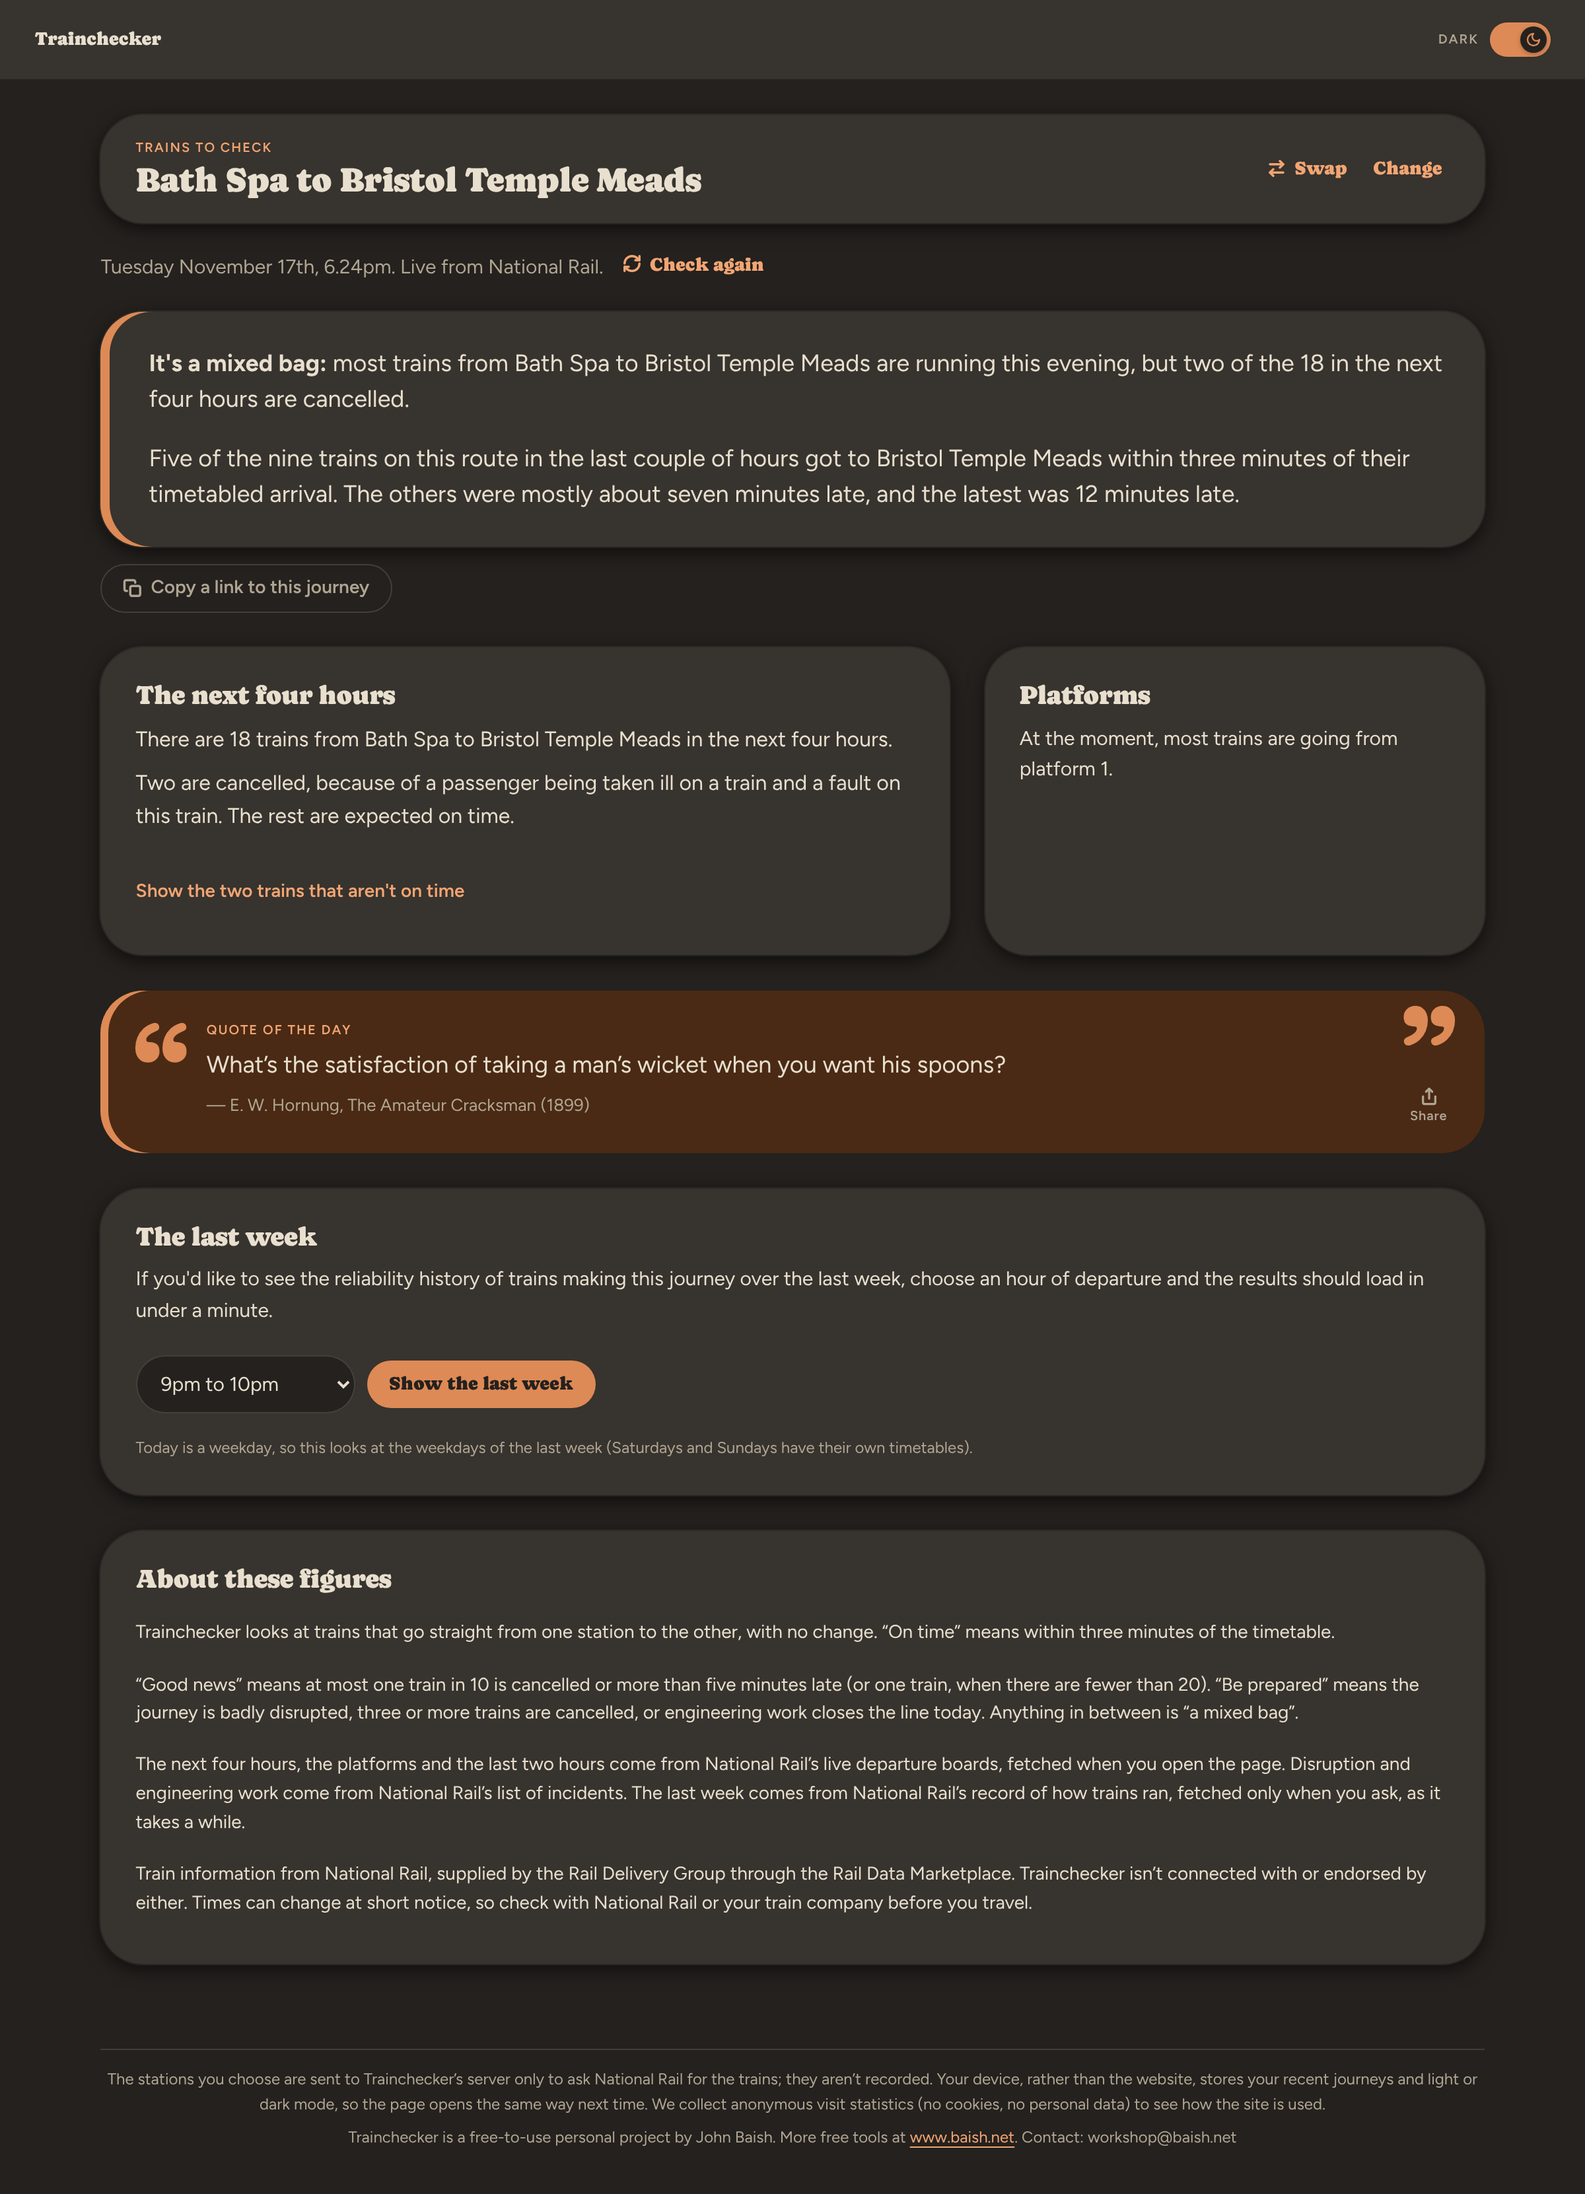
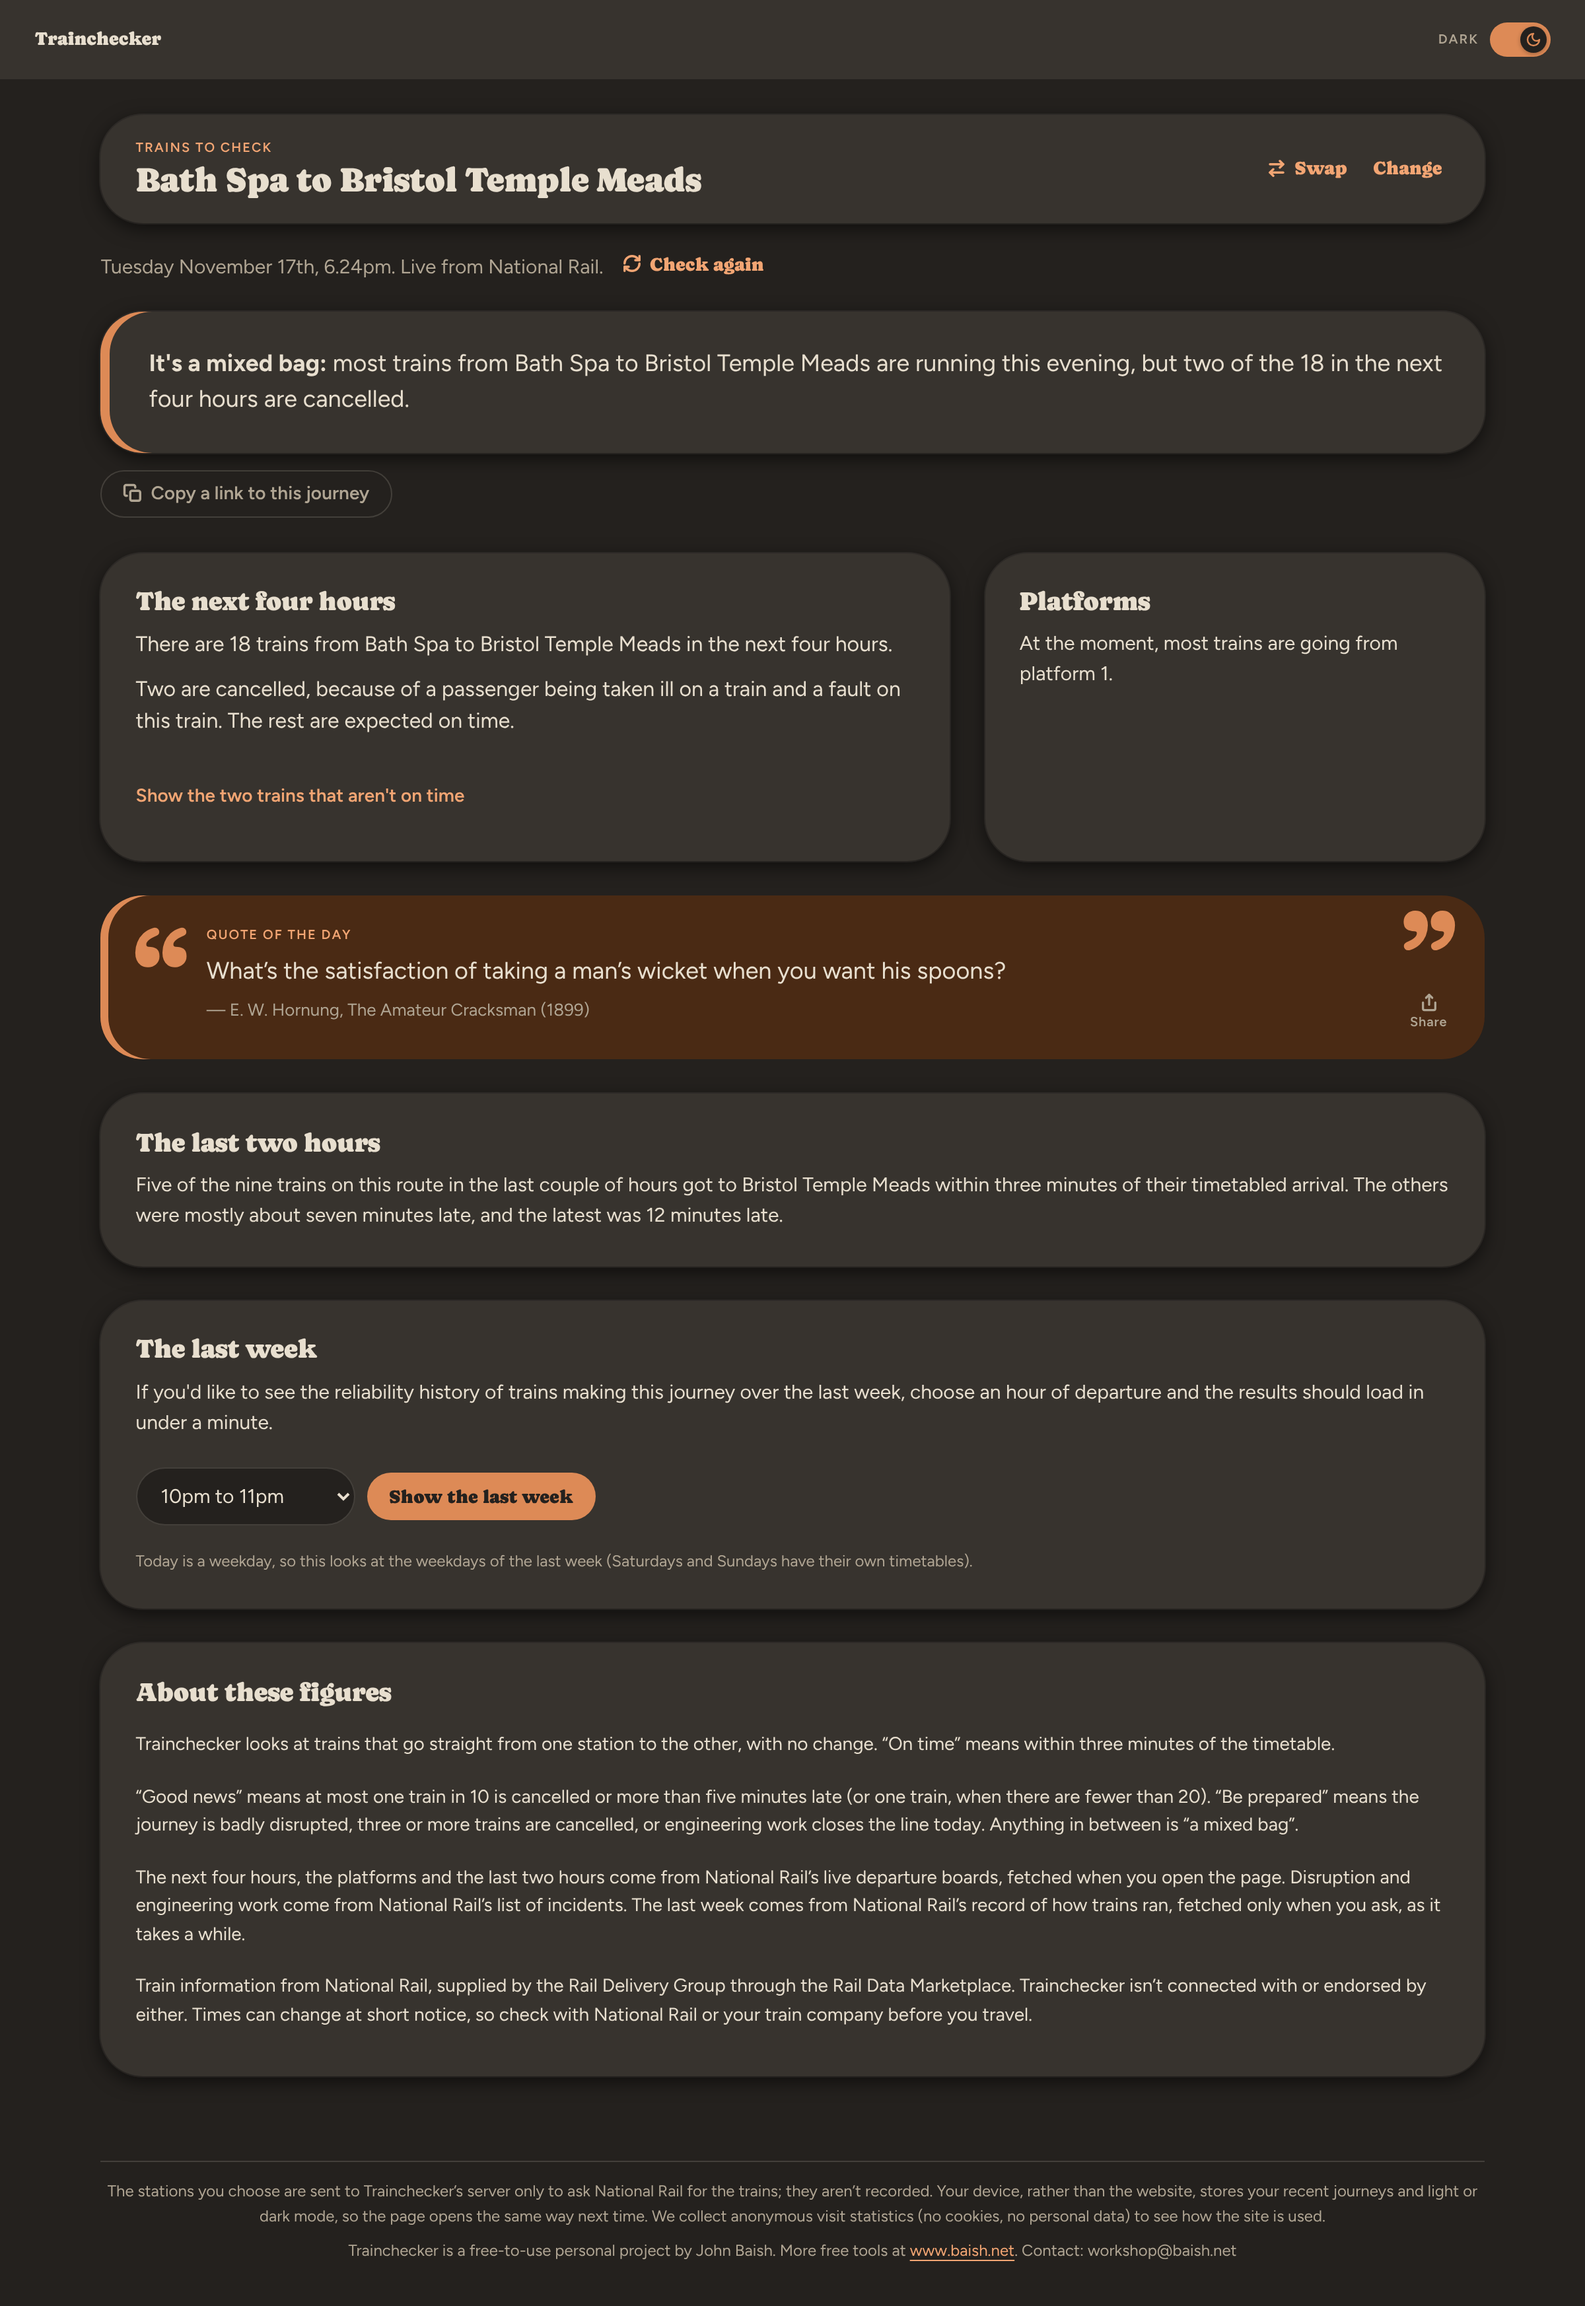
The last two hours never in the verdict (John): mixed bag too
Claude-Session: https://claude.ai/code/session_01BsvHLG1qK9yU2SWYC2ZAsT

diff --git a/scripts/check-rules.ts b/scripts/check-rules.ts
@@ -14,7 +14,7 @@ import { trim, type RawBoard } from '../api/live.ts'
 import { count } from '../api/week.ts'
 import { analyse, diff, type Snap, type Analysis } from '../src/lib/analyse.ts'
 import {
-  verdict, lastTwoInVerdict, nextFour, platforms, lastTwoLines, shareWords, share, lastWeekOthers, lastWeekText, weekFor, t12, dayName,
+  verdict, nextFour, platforms, lastTwoLines, shareWords, share, lastWeekOthers, lastWeekText, weekFor, t12, dayName,
   hourLabel, HOURS, quoteShareText, type Line,
 } from '../src/lib/sentences.ts'
 import { quoteOfTheDay, QUOTES } from '../src/data/quotes.ts'
@@ -54,10 +54,10 @@ for (const f of files) {
   const m = M.analyse(s)
   eq(`${f}: verdict kind`, a.verdict, m.verdict)
   // The last train gone (November 17th 2026) is new since the mock-ups.
-  // Since November 17th 2026 (stage 4), "Good news … leaving on time" no longer gives the last
-  // two hours (they stay in their own box), so only its first line matches the mock-ups.
+  // Since November 17th 2026 (stage 4) the verdict never gives the last two hours (they stay in
+  // their own box), so where the mock-ups added them, only the first line matches.
   const mv: string[] = S.verdict(m).lines
-  if (!a.lastGone) eq(`${f}: verdict`, lineText(verdict(a).lines), a.verdict === 'good' && a.worse ? mv.slice(0, 1) : mv)
+  if (!a.lastGone) eq(`${f}: verdict`, lineText(verdict(a).lines), a.worse ? mv.slice(0, 1) : mv)
   eq(`${f}: next four hours`, nextFour(a), S.nextFour(m))
   // Platforms differ from the mock-ups only where one or two are known (November 17th 2026).
   if (a.platKnown > 2) eq(`${f}: platforms`, platforms(a), S.platforms(m))
@@ -73,7 +73,7 @@ const A = (id: string) => analyse(snapOf(raw(files.find((f) => f.endsWith(`-${id
 const rdgPad = A('RDG-PAD'), manMia = A('MAN-MIA'), kgxYrk = A('KGX-YRK'), bthBri = A('BTH-BRI'), rdgCbg = A('RDG-CBG'), padRdg = A('PAD-RDG')
 eq('good news', lineText(verdict(padRdg).lines), ['<b>Good news:</b> trains from London Paddington to Reading are running well this evening.'])
 eq('leaving on time (P4; the last two hours in their own box, John, stage 4)', lineText(verdict(rdgPad).lines), ['<b>Good news:</b> trains from Reading to London Paddington are leaving on time this evening.'])
-eq('leaving on time: the last two hours box shown', [rdgPad.worse, lastTwoInVerdict(rdgPad)], [true, false])
+eq('mixed bag: the last two hours in their own box (John, stage 4)', [bthBri.worse, verdict(bthBri).lines.length], [true, 1])
 eq('mixed bag', lineText(verdict(bthBri).lines)[0], "<b>It's a mixed bag:</b> most trains from Bath Spa to Bristol Temple Meads are running this evening, but two of the 18 in the next four hours are cancelled.")
 eq('be prepared', lineText(verdict(manMia).lines), ['<b>Be prepared:</b> trains from Manchester Piccadilly to Manchester Airport are disrupted this evening. Of the next 30, 10 are cancelled and two are running late, mostly because of a fault with the signalling system.'])
 eq('no direct train (O7)', lineText(verdict(rdgCbg).lines), [

diff --git a/src/components/JourneyView.tsx b/src/components/JourneyView.tsx
@@ -2,13 +2,13 @@
 // and Change; the time fetched and Check again; the verdict; Share ("Copy a link to this journey"),
 // straight under the verdict it quotes; "The next four hours" with "Platforms" beside it on a
 // computer, the two the same height; the quote of the day; "The last two hours" across the full
-// width, unless the verdict has given it; "The last week". ("The days ahead" is stage 4's.)
+// width; "The last week". ("The days ahead" is stage 4's.)
 import { useEffect, useState } from 'react'
 import { analyse, type Analysis } from '../lib/analyse.ts'
 import { fetchLive } from '../lib/load.ts'
 import { hashOf, remember, type Journey } from '../lib/route.ts'
 import { useIsNarrow } from '../lib/responsive.ts'
-import { dayName, lastTwoInVerdict, lastTwoLines, nextFour, platforms, shareWords, t12, verdict, type NextFour } from '../lib/sentences.ts'
+import { dayName, lastTwoLines, nextFour, platforms, shareWords, t12, verdict, type NextFour } from '../lib/sentences.ts'
 import { isTouch, shareText } from '../lib/share.ts'
 import { nameOf } from '../lib/stations.ts'
 import { Chooser } from './Chooser.tsx'
@@ -159,7 +159,7 @@ export function JourneyView({ journey }: { journey: Journey }) {
           <QuoteCard />
           {/* Across the full width, so a computer shows no gap beside it (John, November 17th
               2026, after trying the preview); after the quote (John, stage 4). */}
-          {!lastTwoInVerdict(an) && <section className="card sec block"><h3>The last two hours</h3><p>{lastTwoLines(an).join(' ')}</p></section>}
+          <section className="card sec block"><h3>The last two hours</h3><p>{lastTwoLines(an).join(' ')}</p></section>
           <LastWeek key={hashOf(journey)} from={journey.from} to={journey.to} fromName={an.from} toName={an.to} elizabeth={elizabeth} />
         </>
       )}

diff --git a/src/lib/sentences.ts b/src/lib/sentences.ts
@@ -107,11 +107,6 @@ export function lastTwoLines(a: Analysis): string[] {
 export type Line = { bold?: string; text: string }
 export type Verdict = { kind: Analysis['verdict']; lines: Line[] }
 
-/** Whether the verdict gives the last two hours (so their own box is left out): only when they
- *  were bad and the verdict is "It's a mixed bag". With "Good news" the verdict says "leaving on
- *  time" instead of "running well", and the box keeps them (John, November 17th 2026, stage 4). */
-export const lastTwoInVerdict = (a: Analysis) => a.worse && a.verdict === 'mixed'
-
 export function verdict(a: Analysis): Verdict {
   const when = partOfDay(a.now)
   const journey = `trains from ${a.from} to ${a.to}`
@@ -161,10 +156,9 @@ export function verdict(a: Analysis): Verdict {
     s += r ? `, mostly because of ${r}.` : '.'
     lines.push({ bold: 'Be prepared:', text: s })
   }
-  // The last two hours, on a new line, only when they were bad (N5), and only after "It's a
-  // mixed bag": after "Good news … leaving on time" they stay in their own box (John, November
-  // 17th 2026, stage 4).
-  if (lastTwoInVerdict(a)) lines.push({ text: lastTwoLines(a).join(' ') })
+  // The last two hours are never in the verdict now: they stay in their own box, and when they
+  // were bad, "Good news" says "leaving on time" instead of "running well" (John, November 17th
+  // 2026, stage 4; replaces N5).
   return { kind, lines }
 }
 

diff --git a/SPEC.md b/SPEC.md
@@ -298,9 +298,9 @@ Asked for by John on November 17th 2026, before stage 4's work; built on the sta
    phones: … the verdict; Share; "The next four hours" and "Platforms"; the quote of the day;
    "The last two hours"; "The days ahead" (stage 4); "The last week"; "About these figures"; the
    footer. (Replaces §8.1's order for these parts.)
-2. **"Good news … leaving on time":** the last two hours no longer appear in the verdict; they
-   stay in "The last two hours", so the only difference from the usual good news is "leaving"
-   for "running". After "It's a mixed bag" they're still given in the verdict (§8.3), for John
-   to confirm.
+2. **The last two hours are never in the verdict** (replaces §8.3): they always stay in "The
+   last two hours". After "Good news" the only difference when they were bad is "leaving on
+   time" for "running well"; after "It's a mixed bag" nothing in the verdict changes. The verdict
+   itself is decided from the next four hours only, as before.
 3. **Share ("Copy a link to this journey", "Share this journey" on phones)** straight under the
    verdict it quotes, for John to confirm (he wasn't sure where it should go).

diff --git a/CLAUDE.md b/CLAUDE.md
@@ -58,11 +58,11 @@ given its own branch). Before committing there, run
 
 - **John:** the quote of the day before "The last two hours" (computer and iPhone); after "Good
   news … leaving on time" the last two hours back in their own box, so only "leaving" for
-  "running" differs; Share higher up, "below the last thing it quotes". Done: `lastTwoInVerdict()`
-  (only after "It's a mixed bag", as Bath Spa to Bristol at 6.24pm; to confirm with John);
+  "running" differs; then, the same after "It's a mixed bag" (so the last two hours are never in
+  the verdict, and always have their box); Share higher up, "below the last thing it quotes". Done:
   `QuoteCard` shown by `JourneyView` (and by `Tail` only on the first visit); Share straight under
   the verdict. `SPEC.md` §10.
-- **Checked:** `npm run check` 158 + 50 (the leaving-on-time verdict now one line, its box shown);
+- **Checked:** `npm run check` 158 + 50 (the leaving-on-time and mixed-bag verdicts now one line, the box always shown);
   `tsc -b`, lint, build; pictures from the saved answers (`design/previews/stage4/order-*`, 1200px
   and 390px, light and dark): no errors, no sideways scroll.
 
